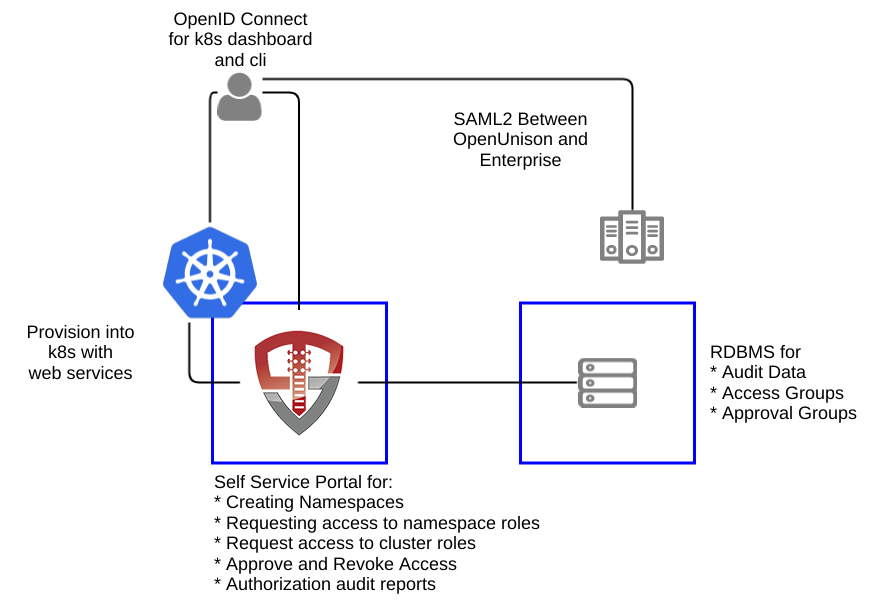
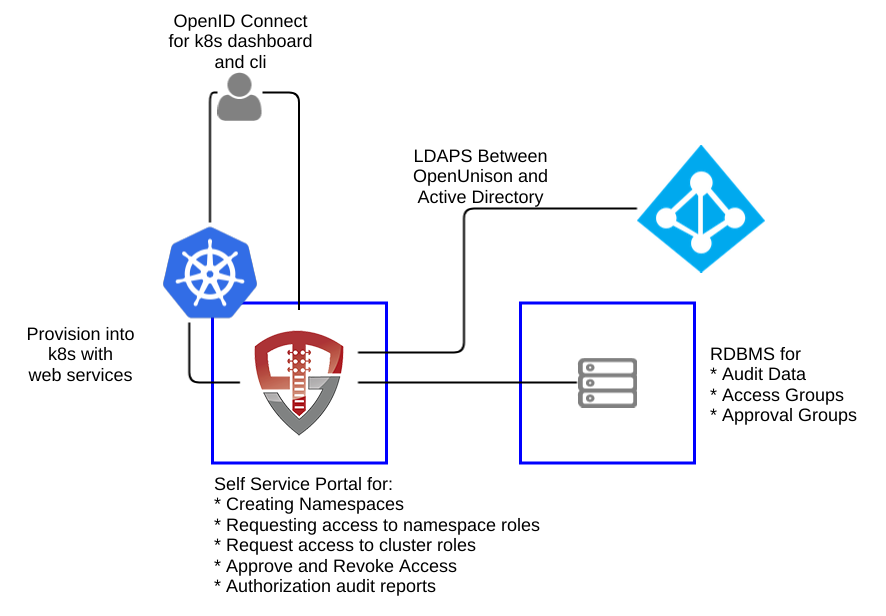
updates for LDAP

diff --git a/README.md b/README.md
@@ -63,14 +63,9 @@ $ keytool -genseckey -alias lastmile-oidc -keyalg AES -keysize 256 -storetype JC
 
 ```
 
-Then the SAML2 RP certificate
+Import the Active Directory certificate for LDAPS
 ```bash
-$ keytool -genkeypair -storetype JCEKS -alias unison-saml2-rp-sig -keyalg RSA -keysize 2048 -sigalg SHA256withRSA -keystore  ./unisonKeyStore.jks -validity 3650
-```
-
-Import the SAML2 signing certificate from your identity provider
-```bash
-$ keytool -import -trustcacerts -alias idp-saml2-sig -rfc -storetype JCEKS -keystore ./unisonKeyStore.jks -file /path/to/certificate.pem
+$ keytool -import -trustcacerts -alias trusted-adldaps -rfc -storetype JCEKS -keystore ./unisonKeyStore.jks -file /path/to/ad-ldaps.pem
 ```
 
 Import the trusted certificate for Kubernetes by looking for the certificate the master (Kubernetes API) server runs under.  This will depend on how you deployed Kubernetes.  For instance for kubeadm import the certificate from `/etc/kubernetes/pki/ca.crt`:
@@ -173,49 +168,25 @@ OU_JDBC_VALIDATION=SELECT 1
 K8S_URL=https://kubernetes.default.svc:6443
 K8S_TOKEN=eyJhbGciOiJS...
 unisonKeystorePassword=start123
-IDP_POST=https://adfs.ent2k16.domain.com/adfs/ls/
-IDP_REDIR=https://adfs.ent2k16.domain.com/adfs/ls/
-IDP_LOGOUT=https://adfs.ent2k16.domain.com/adfs/ls/
-IDP_ENTITY_ID=http://adfs.ent2k16.domain.com/adfs/services/trust
 K8S_DASHBOARD_URL=https://192.168.56.100:30443
 K8S_DASHBOARD_HOST=k8sdb.tslocal.lan
 K8S_DHASBOARD_LINK=https://k8sdb.tslocal.lan/
 OU_COOKIE_DOMAIN=tslocal.lan
+AD_BASE_DN=cn=users,dc=ent2k16,dc=domain,dc=com
+AD_HOST=192.168.56.25
+AD_PORT=636
+AD_BIND_DN=cn=Administrator,cn=users,dc=ent2k16,dc=domain,dc=com
+AD_BIND_PASSWORD=XXXXX
+AD_CON_TYPE=ldaps
+SRV_DNS=false
 ```
 
 A few notes about the above properties:
 
 1. The Kubernetes dashboard needs its own host name, seperate from OpenUnison.  This DNS name should point to OpenUnison (or the load balancer in front of OpenUnison)
-2.  Include the token you generated earlier for the openunison service account
+2. Include the token you generated earlier for the openunison service account
+3. If your Kubernetes master is using Active Directory's DNS, you can set `SRV_DNS` to `true` and change the host to the name of your domain 
 
-
-## Export SAML2 Metadata
-
-Once your environment file is built, metadata can be generated for your identity provider.  First download the OpenUnion utilities jar file from `https://www.tremolosecurity.com/nexus/service/local/repositories/betas/content/com/tremolosecurity/unison/openunison-util/1.0.12.beta/openunison-util-1.0.12.beta-jar-with-dependencies.jar` and run the export:
-
-```bash
-$ java -jar ./openunison-util-1.0.12.beta.jar -action export-sp-metadata -chainName enterprise_idp -unisonXMLFile /path/to/openunison-qs-kubernetes/src/main/webapp/WEB-INF/unison.xml -keystorePath ./unisonKeyStore.jks -envFile ./ou.env -mechanismName SAML2 -urlBase https://openunison.demo.aws
-```
-
-Make sure to replace the `-urlBase` with the URL user for accessing OpenUnison.  It should use the same host as in OU_HOST.  This command will generate XML to the console that can be copied&pasted into a file that can be submited to your identity provider.
-
-
-### Configure Identity Provider
-
-Once the OpenUnison metadata is imported, make sure the following attributes are in the assertion:
-
-| Attribute Name | Active Directory Attribute | Description |
-| -------------- | -------------------------- | ----------- |
-| uid            | samAccountName             | User's login id |
-| givenName      | givenName                  | User's first name |
-| sn             | sn                         | User's last name |
-| mail           | mail                       | User's email address |
-
-If using Active Directory Federation Services, you can use the following claims transformation rule:
-```
-c:[Type == "http://schemas.microsoft.com/ws/2008/06/identity/claims/windowsaccountname", Issuer == "AD AUTHORITY"]
- => issue(store = "Active Directory", types = ("http://schemas.xmlsoap.org/ws/2005/05/identity/claims/nameidentifier", "uid", "givenName", "sn", "mail"), query = ";sAMAccountName,sAMAccountName,givenName,sn,mail;{0}", param = c.Value);
-```
 
 ## Create OpenUnison YAML
 
